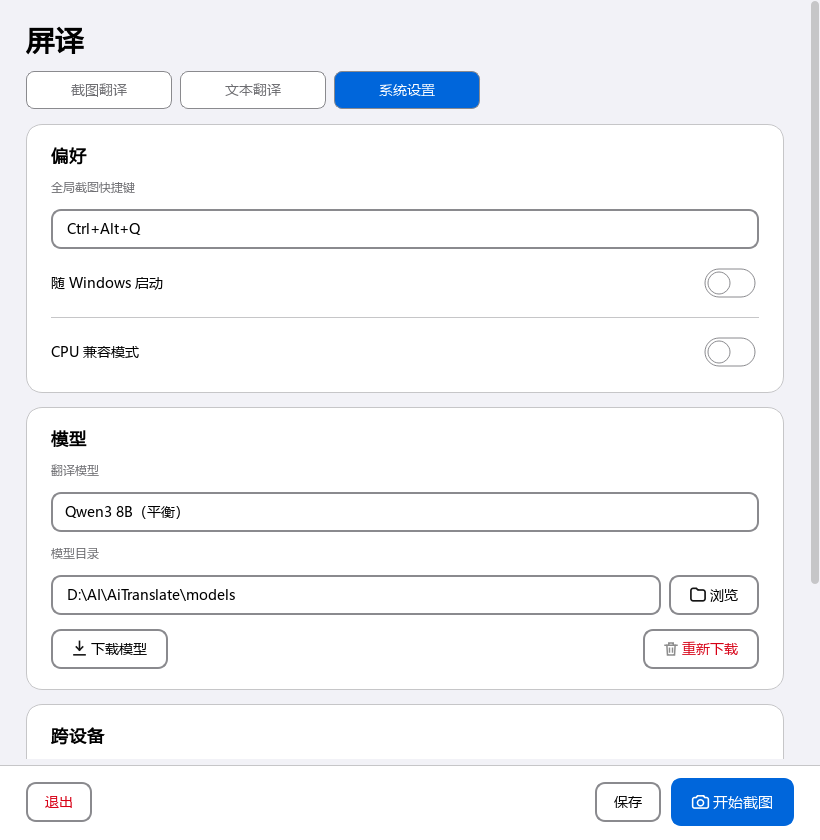
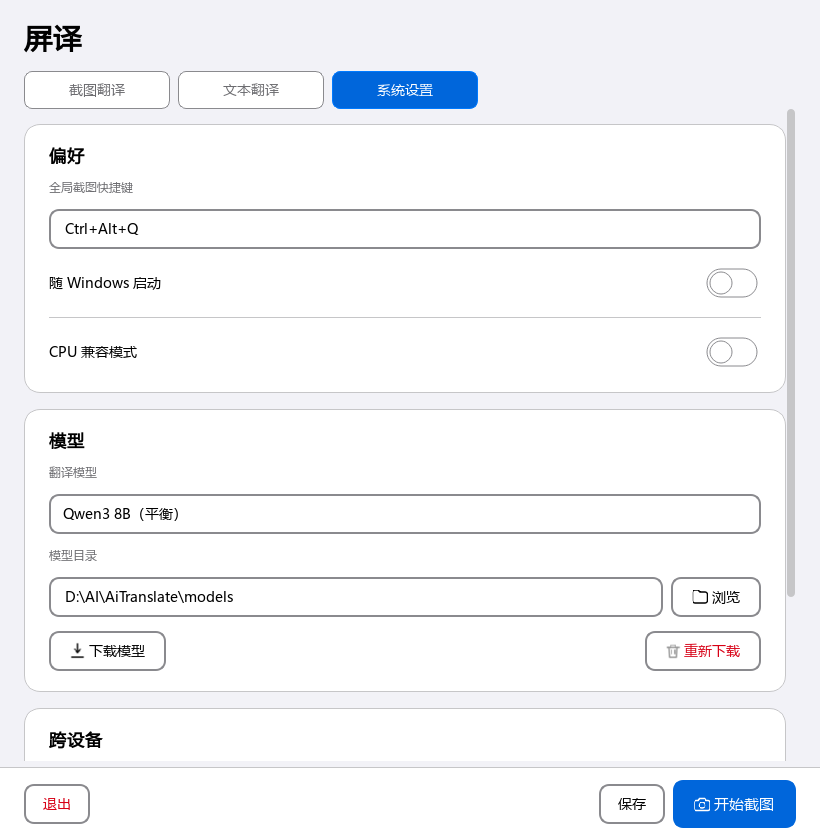
Scroll each settings tab on its own
Spotted in a screenshot of the running application: the text page's
Translate button was below the fold, and the capture page carried a
large stretch of empty space. Neither is what it looked like.

`QTabWidget.minimumSizeHint` is the maximum over its pages, because any
of them may be shown. With one scroll area wrapped around everything,
that maximum became the floor for all three: the system page genuinely
needs 819 px, so the text page — which needs 525 — was stretched to 808
inside a 761 px viewport. Its primary action fell off the bottom at the
*default* window size, not merely the smallest one.

Measured before assuming, and the measurement corrected me twice. It is
not a regression from the new spacing: with the retired flat metrics the
button sat at 956 rather than 903, so the redesign had improved it by
53 px without fixing it. And the cause was not the editors' minimum
heights, which is where I looked first — the page's own minimum was 509,
well inside the viewport.

Each page now owns a QScrollArea, so a long page scrolls and a short one
does not inherit its neighbour's length. The header, the banner and the
tab bar stay outside: the banner reports on a footer button shared by
every tab, and letting it scroll away would be the same defect it was
moved out of the tabs to fix.

At 820x840, the size the window opens at, the text and capture pages now
need no scrolling at all and the system page scrolls 183 px. At the
[…]

diff --git a/screen_translator/settings.py b/screen_translator/settings.py
@@ -77,20 +77,21 @@ class Settings(QWidget):
         outer = QVBoxLayout(self)
         outer.setContentsMargins(0, 0, 0, 0)
 
-        scroll = QScrollArea()
-        self.scroll = scroll
-        scroll.setWidgetResizable(True)
-        scroll.setFrameShape(QFrame.Shape.NoFrame)
-        scroll.setHorizontalScrollBarPolicy(Qt.ScrollBarPolicy.ScrollBarAlwaysOff)
-        content = QWidget()
-        content.setObjectName("scrollContent")
-        layout = QVBoxLayout(content)
+        # The header, the banner and the tab bar do not scroll; each page
+        # scrolls inside itself. One scroll area around everything made
+        # `QTabWidget` impose the tallest page's minimum height on all of
+        # them -- the system page needs 819 px, so the text page was
+        # forced to 808 and its Translate button fell below the fold at
+        # the default window size.
+        chrome = QWidget()
+        chrome.setObjectName("scrollContent")
+        layout = QVBoxLayout(chrome)
         layout.setContentsMargins(
-            SIZES.space_page, SIZES.space_section, SIZES.space_page, SIZES.space_page
+            SIZES.space_page, SIZES.space_section, SIZES.space_page, 0
         )
         layout.setSpacing(SIZES.space_card)
-        scroll.setWidget(content)
-        outer.addWidget(scroll)
+        outer.addWidget(chrome, 1)
+        self._scrolls: list[QScrollArea] = []
 
         self.header = AppHeader("屏译")
         layout.addWidget(self.header)
@@ -366,11 +367,30 @@ class Settings(QWidget):
         self.navigate(Destination.CAPTURE_LANGUAGES)
 
     def make_page(self):
+        """A tab page that scrolls on its own.
+
+        Returning the scroll area rather than the bare page is what
+        keeps each workspace's length to itself: a long page scrolls,
+        and a short one does not inherit its neighbour's minimum.
+        """
+        scroll = QScrollArea()
+        scroll.setWidgetResizable(True)
+        scroll.setFrameShape(QFrame.Shape.NoFrame)
+        scroll.setHorizontalScrollBarPolicy(Qt.ScrollBarPolicy.ScrollBarAlwaysOff)
         page = QWidget()
+        page.setObjectName("scrollContent")
         page_layout = QVBoxLayout(page)
-        page_layout.setContentsMargins(0, SIZES.space_card, 0, 0)
+        page_layout.setContentsMargins(0, SIZES.space_card, 0, SIZES.space_page)
         page_layout.setSpacing(SIZES.space_card)
-        return page, page_layout
+        scroll.setWidget(page)
+        self._scrolls.append(scroll)
+        return scroll, page_layout
+
+    @property
+    def scroll(self) -> QScrollArea:
+        """The scroll area of the tab currently on show."""
+        index = self.tabs.currentIndex() if hasattr(self, "tabs") else 0
+        return self._scrolls[index if 0 <= index < len(self._scrolls) else 0]
 
     def confirm(self, request: ConfirmationRequest) -> bool:
         """`ConfirmationPort` implementation.

diff --git a/tests/test_visual_regression.py b/tests/test_visual_regression.py
@@ -187,6 +187,72 @@ def test_nothing_overflows_the_window(qt_app, tmp_path, width, height, tab):
         view.close()
 
 
+def test_each_tab_scrolls_on_its_own(qt_app, tmp_path):
+    """One scroll area around everything let the longest page rule.
+
+    `QTabWidget.minimumSizeHint` is the maximum over its pages, so a
+    single outer scroll area gave every tab the system page's minimum
+    -- 819 px. The text page needs 525 and was stretched to 808, which
+    pushed its Translate button below the fold at the *default* window
+    size, not merely the smallest one.
+    """
+    view = window(qt_app, semantic.ACTIVE, metrics.ACTIVE, tmp_path)
+    try:
+        view.resize(820, 840)
+        view.show()
+        lengths = {}
+        for tab in range(view.tabs.count()):
+            view.tabs.setCurrentIndex(tab)
+            qt_app.processEvents()
+            lengths[tab] = view.scroll.verticalScrollBar().maximum()
+
+        # The system page is genuinely long and must scroll; the other
+        # two must not inherit that.
+        assert lengths[0] == 0, f"the capture page should fit: {lengths}"
+        assert lengths[1] == 0, f"the text page should fit: {lengths}"
+        assert lengths[2] > 0, "the system page is long enough to scroll"
+    finally:
+        view.close()
+
+
+def test_the_primary_action_of_each_page_is_reachable_without_scrolling(qt_app, tmp_path):
+    """At the default window size. The minimum size may scroll; the
+    default is what a user actually opens."""
+    view = window(qt_app, semantic.ACTIVE, metrics.ACTIVE, tmp_path)
+    try:
+        view.resize(820, 840)
+        view.show()
+        view.tabs.setCurrentIndex(1)
+        qt_app.processEvents()
+
+        button = view.text_page.translate_button
+        viewport = view.scroll.viewport()
+        bottom = button.mapTo(viewport, button.rect().bottomRight()).y()
+
+        assert bottom <= viewport.height(), (
+            f"Translate ends at {bottom} in a {viewport.height()}px viewport"
+        )
+    finally:
+        view.close()
+
+
+def test_the_banner_and_header_do_not_scroll_away(qt_app, tmp_path):
+    """The banner reports on a footer button shared by every tab.
+
+    It sits outside the tabs so a confirmation is visible from all of
+    them; putting it inside a scroll area would let it leave the screen
+    instead, which is the same bug in a new place.
+    """
+    view = window(qt_app, semantic.ACTIVE, metrics.ACTIVE, tmp_path)
+    try:
+        for scroll in view._scrolls:
+            assert not scroll.isAncestorOf(view.banner)
+            assert not scroll.isAncestorOf(view.header)
+            assert not scroll.isAncestorOf(view.tabs)
+    finally:
+        view.close()
+
+
 def test_every_focusable_control_has_an_accessible_name(qt_app, tmp_path):
     from PySide6.QtCore import Qt
     from PySide6.QtWidgets import QComboBox, QLineEdit, QPushButton

diff --git a/CHANGELOG.md b/CHANGELOG.md
@@ -49,6 +49,9 @@ All notable user-visible changes are recorded here. Versions follow semantic ver
   opaque window instead, with nothing else changed.
 - Every disabled control keeps its reason, and the focus ring no longer shifts a control by a pixel
   when it appears.
+- Each settings tab now scrolls on its own. The text page's Translate button used to sit below the
+  fold at the default window size, because a single scroll area gave every tab the longest page's
+  height; the capture page also carried a large stretch of empty space for the same reason.
 - Scrolling the settings page no longer changes a dropdown or the listen port on the way past. The
   selection changes by clicking and picking from the list; the list itself still scrolls once it is
   open, and the page still scrolls when the cursor is over a dropdown.

diff --git a/design-system/screen-translator/pages/settings.md b/design-system/screen-translator/pages/settings.md
@@ -60,3 +60,10 @@ They were its real gain and survive the change of visual language.)*
 - Usable down to 680 × 600, reflowing vertically by scrolling. The larger
   Liquid-Glass padding makes this tighter than before, so it is a
   pre-delivery check rather than an assumption.
+- **Each tab scrolls inside itself; the header, the banner and the tab bar
+  do not.** One scroll area around everything made `QTabWidget` apply the
+  tallest page's minimum height to all of them, so the short pages were
+  stretched to the long one's length. At the *default* window size — not
+  merely the smallest — that pushed the text page's Translate button below
+  the fold. A page's primary action has to be reachable without scrolling
+  at the size the window actually opens at.
